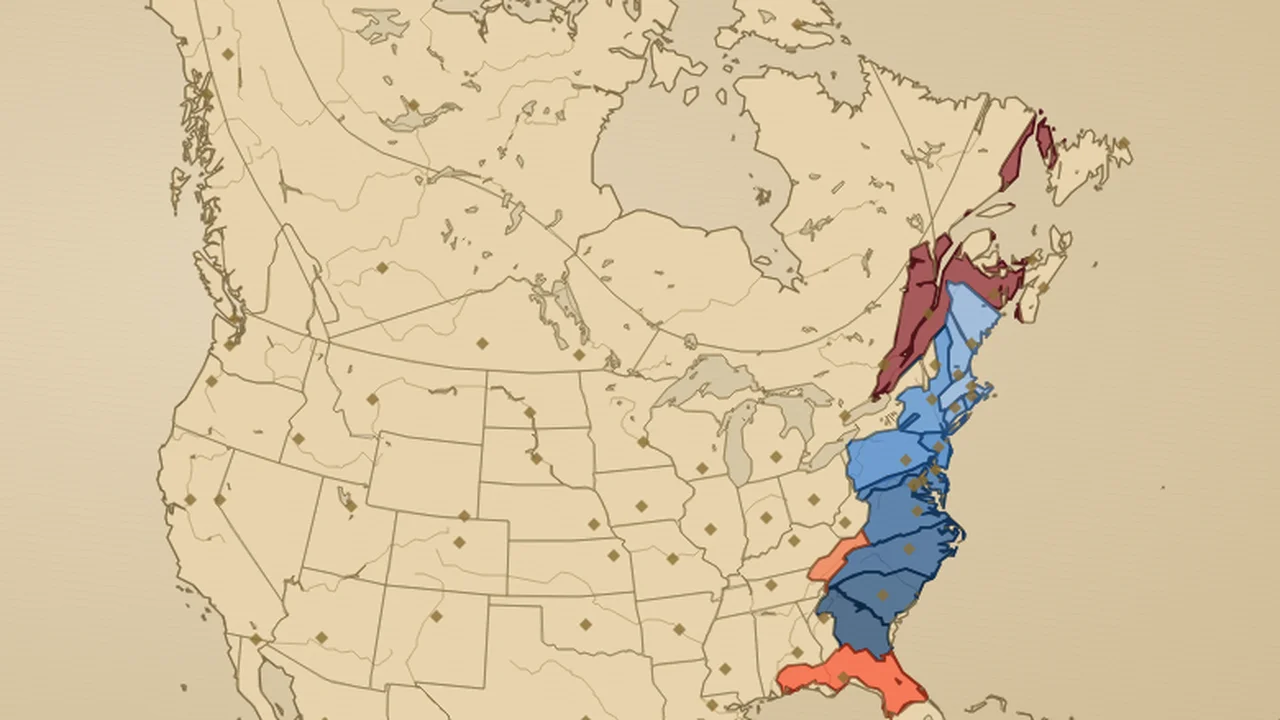
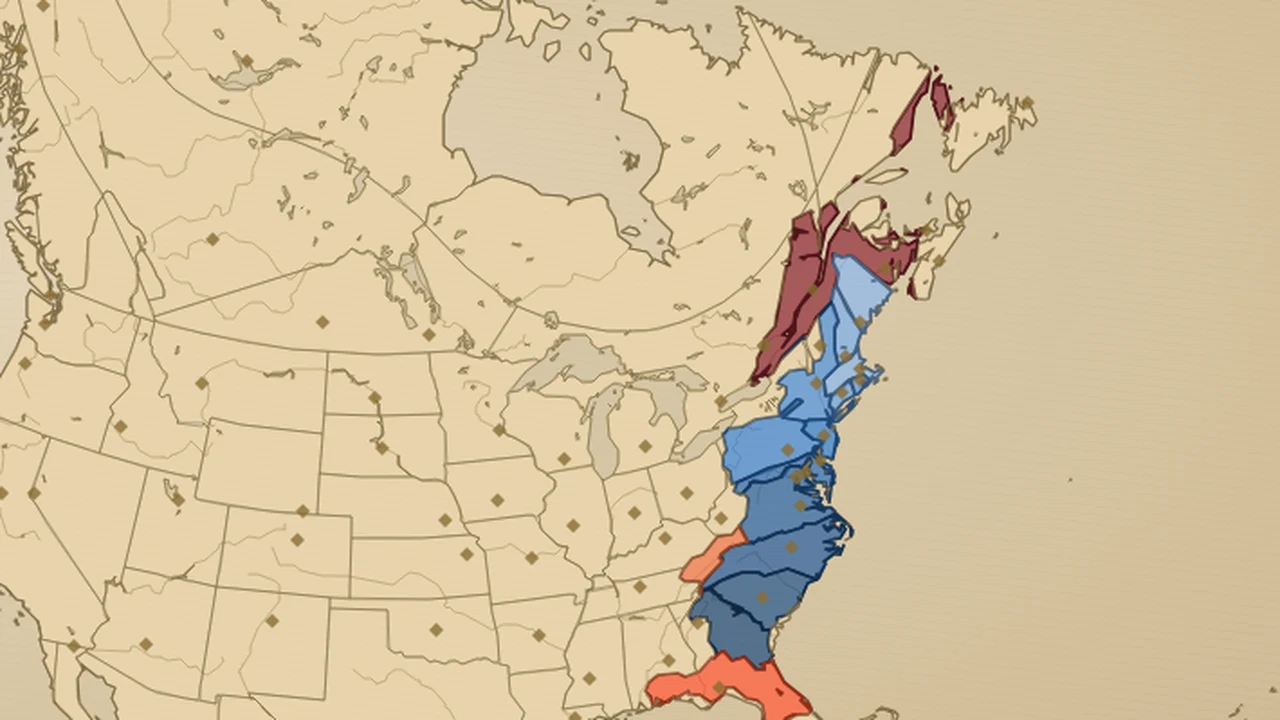
Expand Discover More to six cards, move World Map first
- Moved the Interactive World Map card to the front of Discover More and
  re-cropped its preview tighter on the thirteen East Coast colonies
  (less Canada/interior, none of the colonies cut off).
- Split "Dev Diaries & Newsletter" into a standalone Dev Diaries card
  (linking to the kaisercatcinema.com/blogs/dev-diaries index) and a new
  State of the Cinema Newsletter card linking to kaisercatcinema.com/connect.
- Added a Discord Community card linking to kaisercatcinema.com/discord,
  reusing the tavern illustration for its preview.
- Added a .ex-photo filter so the newsletter card's real team photo reads
  in the same warm, desaturated tone as the section's illustrated cards
  instead of clashing in full colour.

Claude-Session: https://claude.ai/code/session_01NxmVh27VU5pJpiJSH1hUcK

diff --git a/index.html b/index.html
@@ -4,7 +4,7 @@
   AMERICAN KINGDOMS  ·  american-kingdoms.com
   Kaiser Cat Collective / Atelier Vincent De Nil BV
   ──────────────────────────────────────────────────────────────────────
-  VERSION : 1.23.1
+  VERSION : 1.24.0
   BUILD   : 2026-09-09
   CHANGELOG
     1.0.0  Full static rebuild (hand-coded) replacing the WordPress/
@@ -113,6 +113,10 @@
            and dropped "Alpha" from its nav and Discover More labels.
     1.23.1 Added a _redirects file so old /ak-map-alpha links 301 to the
            renamed atlas path.
+    1.24.0 Discover More is now six cards: World Map moved first with a
+           tighter East Coast crop, Dev Diaries & Newsletter split into
+           standalone Dev Diaries and Newsletter cards, plus a new Discord
+           Community card.
   ══════════════════════════════════════════════════════════════════════
 -->
 <html lang="en">
@@ -123,7 +127,7 @@
 <meta name="description" content="In American Kingdoms, American history is re-imagined as a medieval setting, an age defined not by musket and cannon, but by knightly honour and courtly intrigue. A collaborative alt-history world by Kaiser Cat Cinema.">
 <link rel="icon" href="assets/favicon.png">
 <meta name="theme-color" content="#14110d">
-<meta name="version" content="1.23.1">
+<meta name="version" content="1.24.0">
 
 <!-- Open Graph / social -->
 <meta property="og:type" content="website">
@@ -424,6 +428,7 @@ blockquote.charter cite{display:block;font-family:var(--body);font-style:italic;
 .ex-card{border:1px solid rgba(90,74,56,.3);overflow:hidden;background:#f4ecda;display:flex;flex-direction:column}
 .ex-card .ex-img{aspect-ratio:16/9;overflow:hidden}
 .ex-card .ex-img img{width:100%;height:100%;object-fit:cover;filter:grayscale(.1)}
+.ex-card .ex-img img.ex-photo{filter:grayscale(.85) sepia(.2) contrast(1.05)}
 .ex-body{padding:1.6rem 1.6rem 1.8rem;display:flex;flex-direction:column;flex:1}
 .ex-body h3{font-size:1.28rem;margin-bottom:.6rem}
 .ex-body p{font-size:.98rem;color:var(--parch-ink-2);margin-bottom:1.3rem}
@@ -1112,6 +1117,14 @@ body.newsletter-open{overflow:hidden}
     <div class="section-head reveal"><h2>Discover more American Kingdoms:</h2></div>
     <div class="explore-grid">
       <article class="ex-card reveal">
+        <div class="ex-img"><img src="assets/editorial/explore-atlas.webp" alt="Interactive alt-history map of the New World in 1377 A.D., focused on the thirteen East Coast colonies coloured by realm" loading="lazy"></div>
+        <div class="ex-body">
+          <h3>Interactive World Map</h3>
+          <p>Chart the New World in 1377 A.D. for yourself. Zoom into every duchy, republic and territory, switch between realms and cultures, and read up on each faction straight from the atlas.</p>
+          <a class="btn btn-dark" href="/medieval-america-map/">Explore the Map</a>
+        </div>
+      </article>
+      <article class="ex-card reveal">
         <div class="ex-img"><img src="assets/editorial/explore-wiki.webp" alt="Crusader and Native knights clash during the Siege of Mount Rushmore" loading="lazy"></div>
         <div class="ex-body">
           <h3>American Kingdoms Wiki</h3>
@@ -1130,17 +1143,25 @@ body.newsletter-open{overflow:hidden}
       <article class="ex-card reveal">
         <div class="ex-img"><img src="assets/editorial/explore-dev-diaries.webp" alt="American Kingdoms development storyboards and concept sketches" loading="lazy"></div>
         <div class="ex-body">
-          <h3>Dev Diaries &amp; Newsletter</h3>
-          <p>KCC founder <a href="https://kaisercatcinema.com/pages/about-vincent">Vincent De Nil</a> builds the world of American Kingdoms in public through his dev diaries and worldbuilding posts. Follow the creative process and receive new entries through the KCC newsletter.</p>
-          <a class="btn btn-dark" href="https://kaisercatcinema.com/newsletter">Join the Newsletter</a>
+          <h3>Dev Diaries</h3>
+          <p>KCC founder <a href="https://kaisercatcinema.com/pages/about-vincent">Vincent De Nil</a> builds the world of American Kingdoms in public through his dev diaries and worldbuilding posts, sharing the creative process behind every faction and territory.</p>
+          <a class="btn btn-dark" href="https://kaisercatcinema.com/blogs/dev-diaries">Read the Dev Diaries</a>
         </div>
       </article>
       <article class="ex-card reveal">
-        <div class="ex-img"><img src="assets/editorial/explore-atlas.webp" alt="Interactive alt-history map of the New World in 1377 A.D., with the thirteen colonies coloured by realm" loading="lazy"></div>
+        <div class="ex-img"><img src="assets/tavern.jpg" alt="American Kingdoms characters gathered around a tavern table, laughing and playing cards" loading="lazy"></div>
         <div class="ex-body">
-          <h3>Interactive World Map</h3>
-          <p>Chart the New World in 1377 A.D. for yourself. Zoom into every duchy, republic and territory, switch between realms and cultures, and read up on each faction straight from the atlas.</p>
-          <a class="btn btn-dark" href="/medieval-america-map/">Explore the Map</a>
+          <h3>Discord Community</h3>
+          <p>Chat with fellow worldbuilders in real time, share your own fiefdoms and characters, and get an early look at new lore and artwork alongside the rest of the American Kingdoms community.</p>
+          <a class="btn btn-dark" href="https://kaisercatcinema.com/discord">Join the Discord</a>
+        </div>
+      </article>
+      <article class="ex-card reveal">
+        <div class="ex-img"><img class="ex-photo" src="assets/kcc-crew-photo.webp" alt="The Kaiser Cat Collective team gathered in front of a vintage truck" loading="lazy"></div>
+        <div class="ex-body">
+          <h3>State of the Cinema Newsletter</h3>
+          <p>A monthly digest from the Kaiser Cat Collective: dev diary highlights, behind-the-scenes updates and exclusive webshop sales, delivered straight to your inbox.</p>
+          <a class="btn btn-dark" href="https://kaisercatcinema.com/connect">Join the Newsletter</a>
         </div>
       </article>
     </div>

diff --git a/CHANGELOG.md b/CHANGELOG.md
@@ -1,5 +1,9 @@
 # American Kingdoms — Changelog
 
+## 1.24.0 — 2026-09-09
+- Discover More now has six cards: moved Interactive World Map first and re-cropped its preview tighter on the thirteen East Coast colonies, split Dev Diaries & Newsletter into a standalone Dev Diaries card and a new State of the Cinema Newsletter card, and added a new Discord Community card.
+- Added a `.ex-photo` filter so a real photograph (used for the new Newsletter card) reads in the same warm, desaturated tone as the section's illustrated cards instead of clashing in full colour.
+
 ## 1.23.1 — 2026-09-09
 - Added a root `_redirects` file so the old `/ak-map-alpha` links 301 to `/medieval-america-map/`.
 
